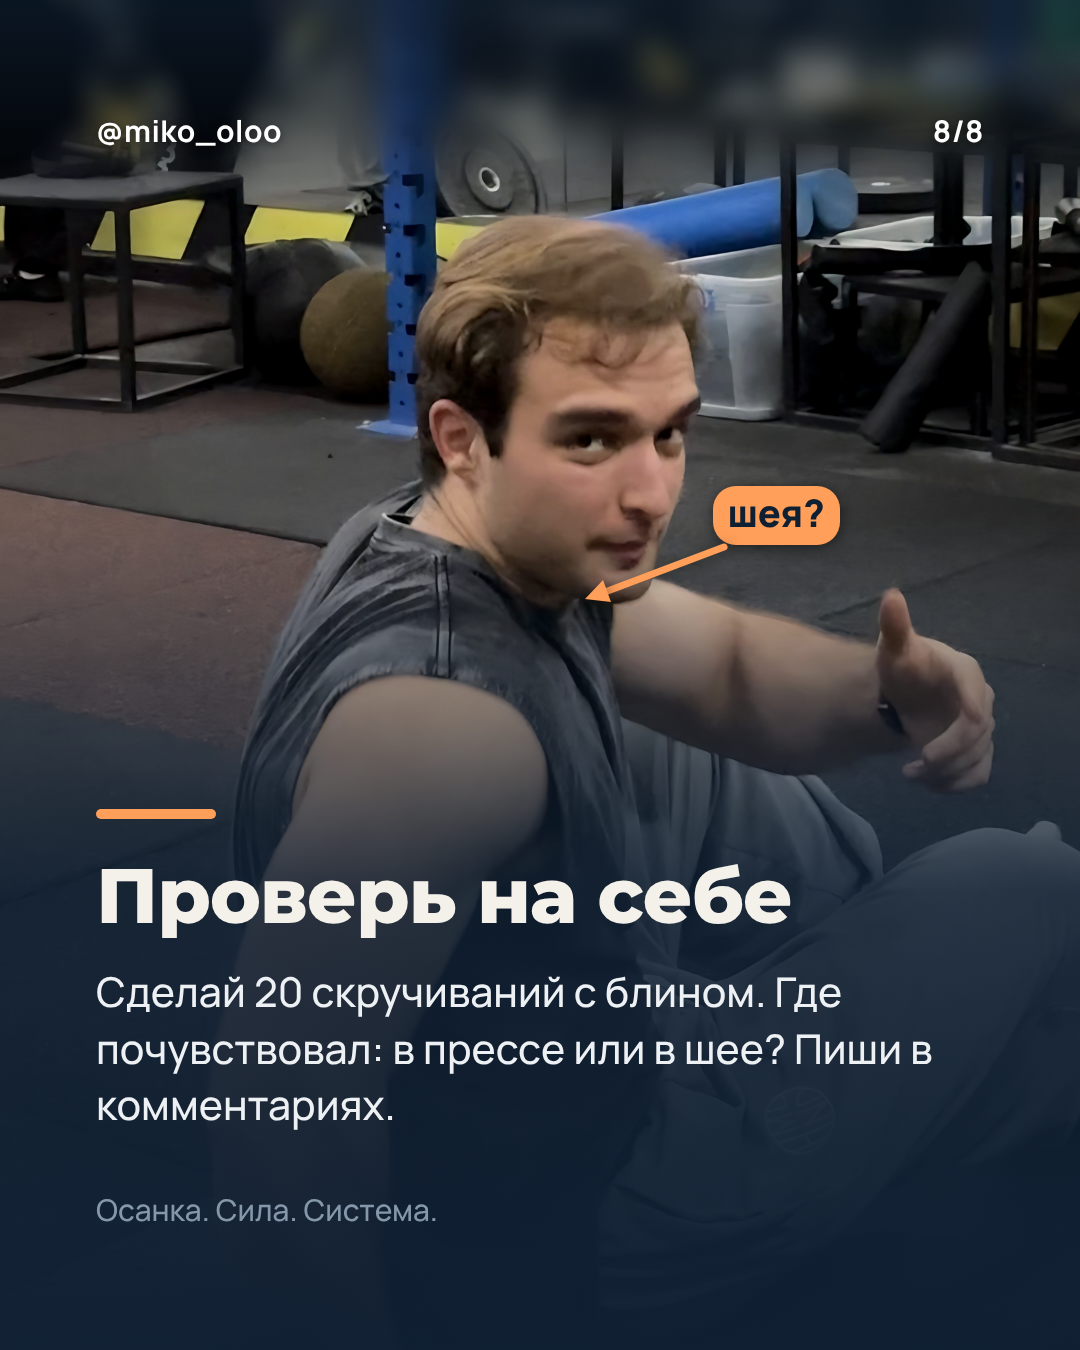
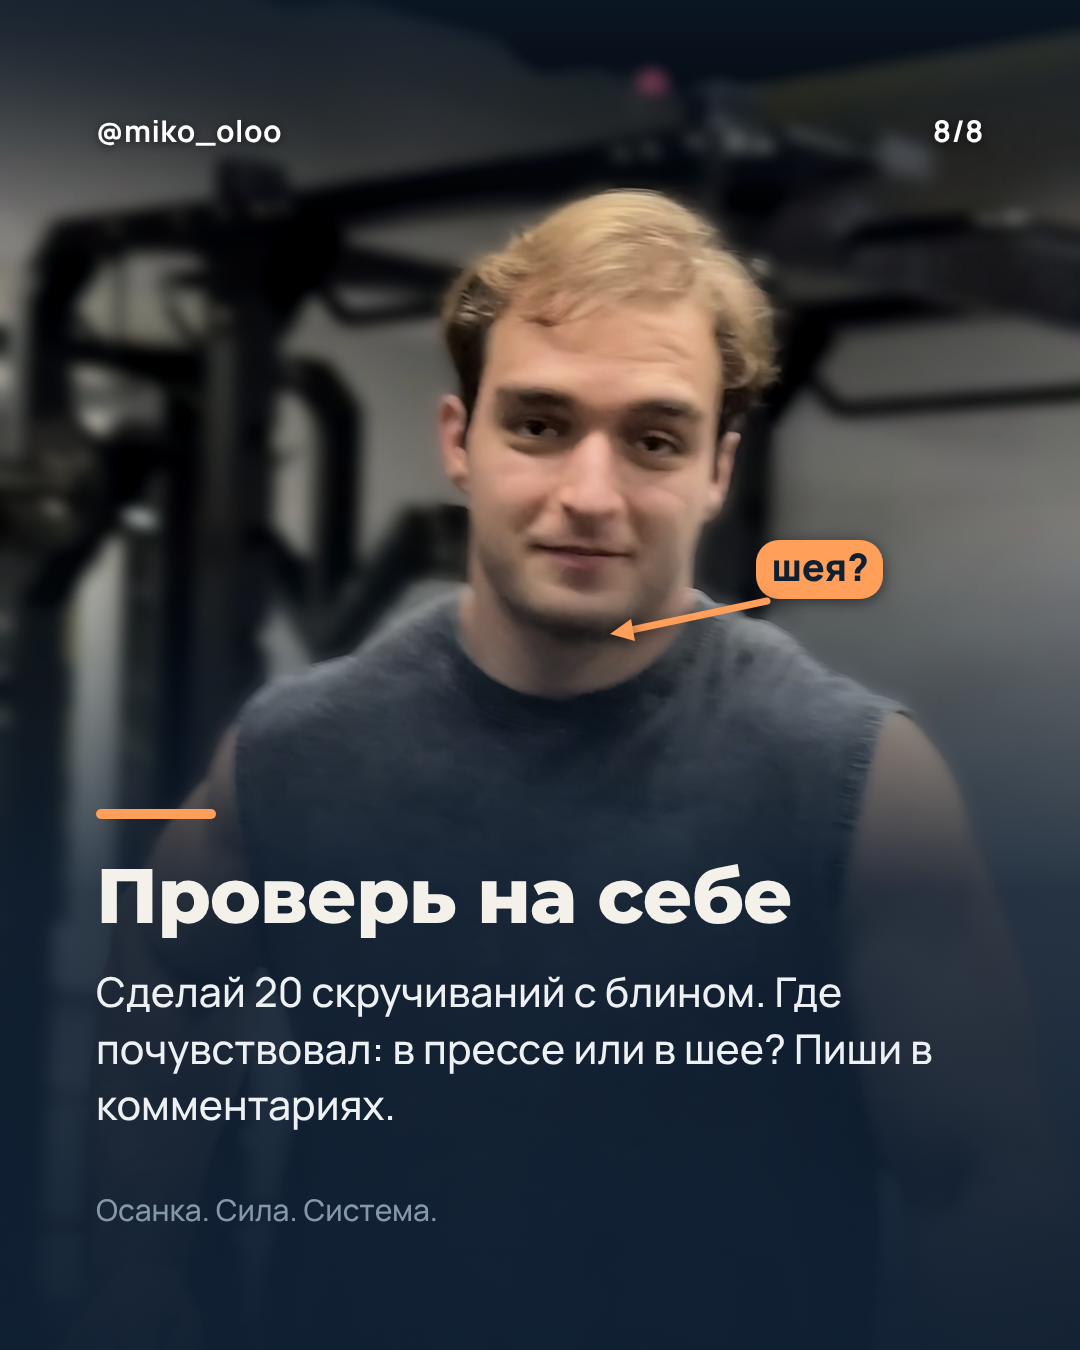
c7: спокойный кадр в финале вместо ухмылки, словарь 19.11 (фото 1,2,4 тир-листа)
Claude-Session: https://claude.ai/code/session_014b6iEBjPGyacsH4fnBbVwQ

diff --git a/content/carousels/build_18-11.py b/content/carousels/build_18-11.py
@@ -131,6 +131,10 @@ def prep():
     glow(f'{B}/c7_bad2.jpg', f'{SRC}/c7_bad.jpg', [[57, 52, 59, 62, 4.5]], RED, 0.6)
     for n in ('c7_phone', 'c7_good_side', 'c7_good_close', 'c7_protocol', 'c7_cta', 'c7_good_top'):
         Image.open(f'{B}/{n}.jpg' if os.path.exists(f'{B}/{n}.jpg') else f'{SRC}/{n}.jpg').save(f'{SRC}/{n}.jpg', quality=90)
+    # c7 финал (19.11): спокойный кадр IMG_9673 13,9 с вместо ухмылки, фон размыт по маске
+    import importlib.util
+    spec = importlib.util.spec_from_file_location('b8', f'{DIR}/build_c8.py'); b8 = importlib.util.module_from_spec(spec); spec.loader.exec_module(b8)
+    b8.portrait(f'{SP}/car/sel9/9673_13.9_sr.png', f'{SRC}/c7_cta_calm.jpg', 0.8, 0.06)
 
 
 # ---------- слайды ----------
@@ -341,7 +345,7 @@ def c7():
         pr += [text(28, yy, n, 30, A, 800), text(64, yy, s_, 30, col, 800)]
     proto = svg(*b7, *pr)
     b8 = (W, 1350)
-    cta = svg(*b8, pill(*P(66, 36, *b8), 'шея?', A, BG, 38), arrow(*P(67, 40.5, *b8), *P(54.2, 44.4, *b8), A, 7, 26))
+    cta = svg(*b8, pill(*P(70, 40, *b8), 'шея?', A, BG, 38), arrow(*P(71, 44.5, *b8), *P(56.5, 47, *b8), A, 7, 26))
     return [
         {'layout': 'photo-top', 'photoHeight': 66, 'big': True, 'photo': 'src/c7_cover.jpg', 'focus': '50% 50%',
          'title': 'Качаешь пресс,\nа устаёт шея?', 'body': 'Дело в руках за головой. Моё скручивание с блином.', 'marks': [cover]},
@@ -357,7 +361,7 @@ def c7():
          'title': 'Повторений, задержка в последнем', 'body': 'На тренажёре для пресса под углом, голова ниже таза. Нет тренажёра: на полу, ноги согнуты в коленях.', 'marks': [rep]},
         {'layout': 'photo-top', 'photoHeight': 74, 'photo': 'src/c7_protocol.jpg', 'focus': '50% 50%',
          'title': 'Пресс у меня последний', 'body': 'Протокол при переднем наклоне таза идёт сверху вниз.', 'marks': [proto]},
-        {'layout': 'cta-photo', 'photo': 'src/c7_cta.jpg', 'focus': '50% 50%',
+        {'layout': 'cta-photo', 'photo': 'src/c7_cta_calm.jpg', 'focus': '50% 50%',
          'title': 'Проверь на себе', 'body': 'Сделай 20 скручиваний с блином. Где почувствовал: в прессе или в шее? Пиши в комментариях.', 'marks': [cta]},
     ]
 

diff --git a/.claude/MIKAEL_DICTIONARY.md b/.claude/MIKAEL_DICTIONARY.md
@@ -34,6 +34,8 @@
 | привлечение и удобство (про канал) | Привлечение: как канал набирает подписчиков и держит реакцию (заголовки, опросы, видео, кружки, рубрики, взаимный пиар). Удобство: навигация и лёгкость чтения (хэштеги рубрик, закреп-оглавление, кнопки, серии, постоянное время выхода) | 29.10, догадка |
 | скопировать у них (про чужие каналы) | Перенять приём или формат и сделать его своим голосом. Тексты, картинки и посты целиком не копируем: копия чужой карусели в Instagram дала 300 просмотров, в TG_STYLE чужие картинки запрещены. Подтверждено 29.10: "не нужно полностью копировать, просто понять суть" | 29.10 |
 | живые (про посты) | Не похожи на шаблон и ИИ: его голос и цифры, одна особенная деталь, разная подача внутри скелета своего типа поста. Не значит разговорную историю без экспертизы (урок v2 от 29.10) | 29.10 |
+| раскадровка (про карусели) | Сводная картинка карусели: все слайды на одном листе, как мы присылаем на проверку | 19.11, догадка |
+| фотки 1,2,4 | Фото на слайдах с этими номерами (номер в углу слайда на сводной) | 19.11, догадка |
 
 ## Правки и выводы
 | Дата | Он сказал | Имел в виду | Вывод на будущее |
@@ -116,6 +118,7 @@
 | 18.11 | (голосом, с недовольством) "Чатплайс подписку для след месяца надо отключить. А также я на этой неделе не увидел, чтобы ты публиковал карусели. Нука сразу 3 карусели сделай и мне на проверку, потом выложим" | 1) Перестать платить за ChatPlace со следующего месяца. Догадка: не окупается, кодовые слова пишут в основном знакомые (07.11). Считает, что отключим мы, но у нас нет инструмента для подписки, отключает он сам в кабинете. 2) Пустая неделя опять наш промах (повтор 12.11). Два наших запроса ока по c4 он не заметил или не считает причиной. "Сразу 3" значит закрыть недостачу и дать запас, всё на его проверку, публикация после ока | Решение об отказе от платного сервиса исполняем без уговоров: что нажать ему, одной строкой что и с какой даты перестанет работать, есть ли бесплатный тариф. Запрос ока не прячем в отчёт: нет ответа сутки, повторно шлём готовые слайды отдельным сообщением. Большая задача (монтаж) не повод откладывать карусели по плану. "Сделай N штук" при готовой, но не одобренной единице: N новых плюс готовая сверху пакета (догадка, проверить по реакции). Пока судьба ChatPlace не ясна, кодовое слово только в подписи, не на слайдах |
 | 18.11 | "Интерактива добавь побольше" (про карусели c5-c7 до показа) | Интерактив в каруселях это то же, что в рилсе: графика по смыслу на фото и схемы вместо сплошного текста, плюс вовлечение зрителя | На каждом слайде, где есть что показать: ориентиры и углы на теле (козелок уха, C7, краниовертебральный угол), подсветка работающей мышцы по силуэту, номера точек протокола на теле, шкалы решений, схемы и графики по исследованиям (без выдуманных значений), вопрос с ответом на следующем слайде, "найди себя на шкале". Одна съёмка не больше 2 слайдов в карусели, чужих людей на слайдах "как у меня" не ставим. Генератор: content/carousels/build_18-11.py |
 | 18.11 | "Давай повременим с контентом про фитнес, больше про осанку сделаешь. Там где про сон нормально, только мою последнюю фотку замени, со странной улыбкой, на что-то более живое и спокойное. Медицинский разбор можешь тоже делать в тематике для каруселей" | Сменил приоритет контента: осанка главная тема, фитнес (тир-листы, добавки) на паузе. Карусель про сон одобрил с одной правкой. Разрешил медицинские разборы | c4 тир-лист и c6 креатин на паузе. c5 сон: финал заменён на спокойный живой кадр (IMG_9678, идёт в камеру), поставлена в Metricool на Пт 20.11 10:00. Новые карусели про осанку и медицинские разборы (без схем и доз фармы, при боли "напиши мне, разберёмся"). Фото Микаела выбираем с естественным спокойным лицом, натянутые улыбки не берём |
+| 19.11 | "По первой раскадровке норм фотки 1,2,4" | Догадка: первая по порядку показа 18.11 сводная картинка, это c4 тир-лист груди (правило 29.10). Фото на слайдах 1, 2, 4 оставить, на 3, 5, 6, 7, 8 заменить, текст не трогать. c4 на паузе с 18.11, оценку дал на будущее. Запасное прочтение: c7 скручивания (ждёт ок на 23.11) | Список "норм" значит: остальные фото заменить, текст и вёрстку не трогать (догадка, проверить по реакции). Оценка карусели на паузе паузу не снимает: правим, держим готовой, без его ока в Metricool не ставим. В ответе называем карусель словами ("тир-лист груди"), чтобы он сразу поправил, если имел в виду другую. Правило 18.11 про лица применяем ко всем каруселям сами: финал c7 со странным лицом меняем до повторного запроса ока |
 
 ## Что ему нравится
 - Яркие бытовые образы ("утиная попка", "стоишь как утка").

diff --git a/content/carousels/img/SOURCES.md b/content/carousels/img/SOURCES.md
@@ -54,7 +54,8 @@
 | Файл | Где | Источник | Лицензия |
 |---|---|---|---|
 | src/c5_gym_phone.jpg (IMG_9694), c5_smile.jpg (IMG_9704), c6_cover.jpg (IMG_9686), c6_cta.jpg (IMG_9695), c7_phone.jpg (IMG_9709) | c5 слайды 7-8, c6 слайды 1 и 9, c7 слайд 3 | фото Микаела со съёмки про осанку 12.11 (Google Диск) | своё |
-| src/c7_cover.jpg, c7_bad.jpg, c7_good_side.jpg, c7_good_close.jpg, c7_good_top.jpg, c7_protocol.jpg, c7_cta.jpg | c7 | кадры из видео Микаела (IMG_9691, 9668, 9669, 9667, 9673, 9692), увеличены Real-ESRGAN general x4v3 (BSD-3), люди на заднем плане размыты | своё |
+| src/c7_cover.jpg, c7_bad.jpg, c7_good_side.jpg, c7_good_close.jpg, c7_good_top.jpg, c7_protocol.jpg, c7_cta.jpg | c7 | кадры из видео Микаела (IMG_9691, 9668, 9669, 9667, 9673, 9692), увеличены Real-ESRGAN general x4v3 (BSD-3), люди на заднем плане размыты. c7_cta.jpg с ухмылкой больше не используется | своё |
+| src/c7_cta_calm.jpg | c7 слайд 8 (с 19.11) | кадр IMG_9673 на 13,9 с, спокойное лицо в камеру (правило 18.11 про лица), Real-ESRGAN, фон размыт по маске MediaPipe | своё |
 | src/mikael_bench.jpg, mikael_curl.jpg, mikael_pullup.jpg | c5 слайды 2-3, c6 слайд 4 | фото Микаела (прислал 26.10) | своё |
 | src/c5_night.jpg | c5 обложка | pexels.com/photo/light-dawn-sunset-man-6944004 | Pexels |
 | src/c5_tired_gym.jpg | c5 обложка | pexels.com/photo/tired-male-athlete-resting-on-bench-during-weightlifting-workout-in-gym-3838706 | Pexels |

diff --git a/content/PLAN_IG_19-25_11.md b/content/PLAN_IG_19-25_11.md
@@ -5,7 +5,7 @@
 | Когда | Что | Статус |
 |---|---|---|
 | пауза | c4 "Тир-лист: грудь" | фитнес на паузе (решение 18.11) |
-| Пн 23.11, 10:00 | c7 "Качаешь пресс, а устаёт шея?", 8 слайдов: кадры Микаела с пометками на теле, краниовертебральный угол, точки протокола, ОСАНКА в подписи | готова 18.11, ждёт ок |
+| Пн 23.11, 10:00 | c7 "Качаешь пресс, а устаёт шея?", 8 слайдов: кадры Микаела с пометками на теле, краниовертебральный угол, точки протокола, ОСАНКА в подписи | готова 18.11, 19.11 финал заменён на спокойный кадр (правило про лица), ждёт ок |
 | Пт 20.11, 10:00 | c5 "Спал 4 часа? Тяжёлого дня не будет", 8 слайдов | одобрена 18.11, финал заменён, стоит в Metricool |
 | пауза | c6 "Жму 170 кг. Протеин пью 2 раза" | фитнес на паузе (решение 18.11) |
 | Ср 25.11, 10:00 | c8 "Утка или доска: какой у тебя таз?" (наклон таза, протокол при заднем), 9 слайдов | готова 19.11, проверка |
